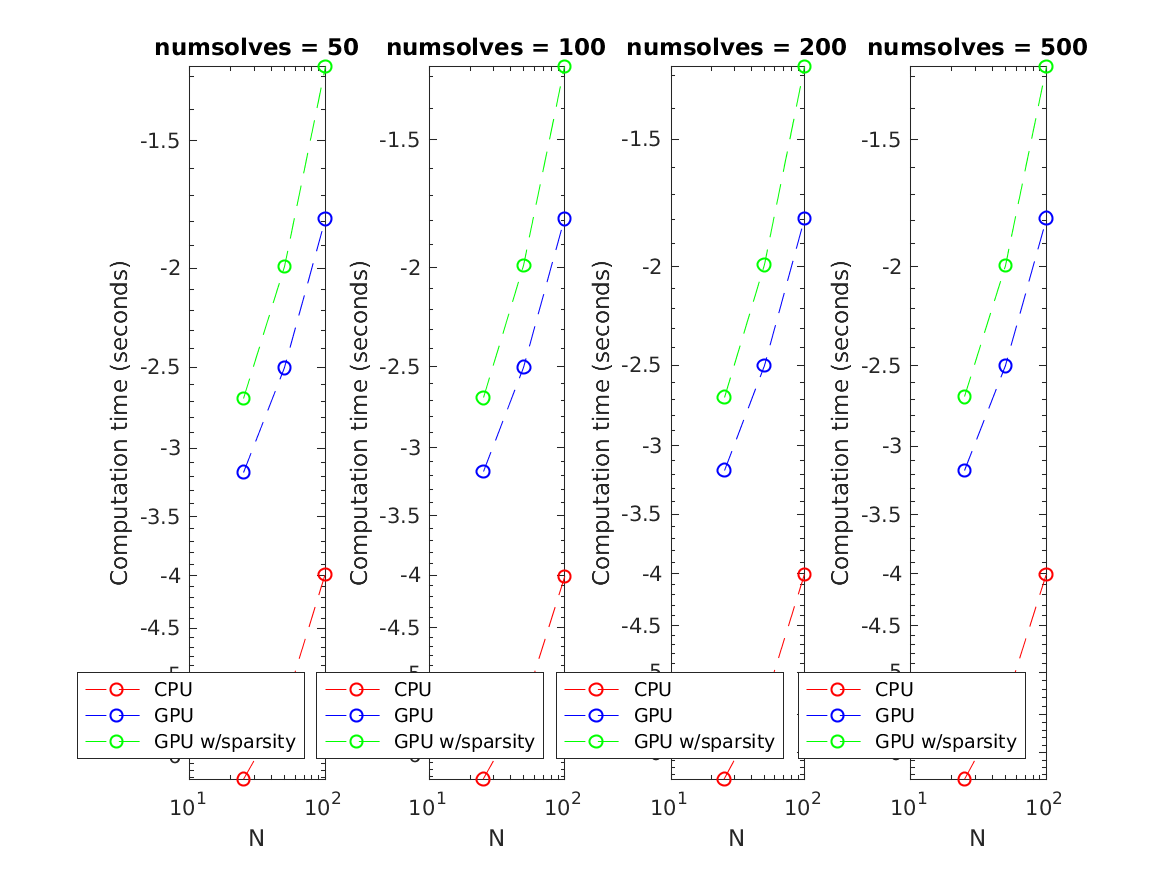
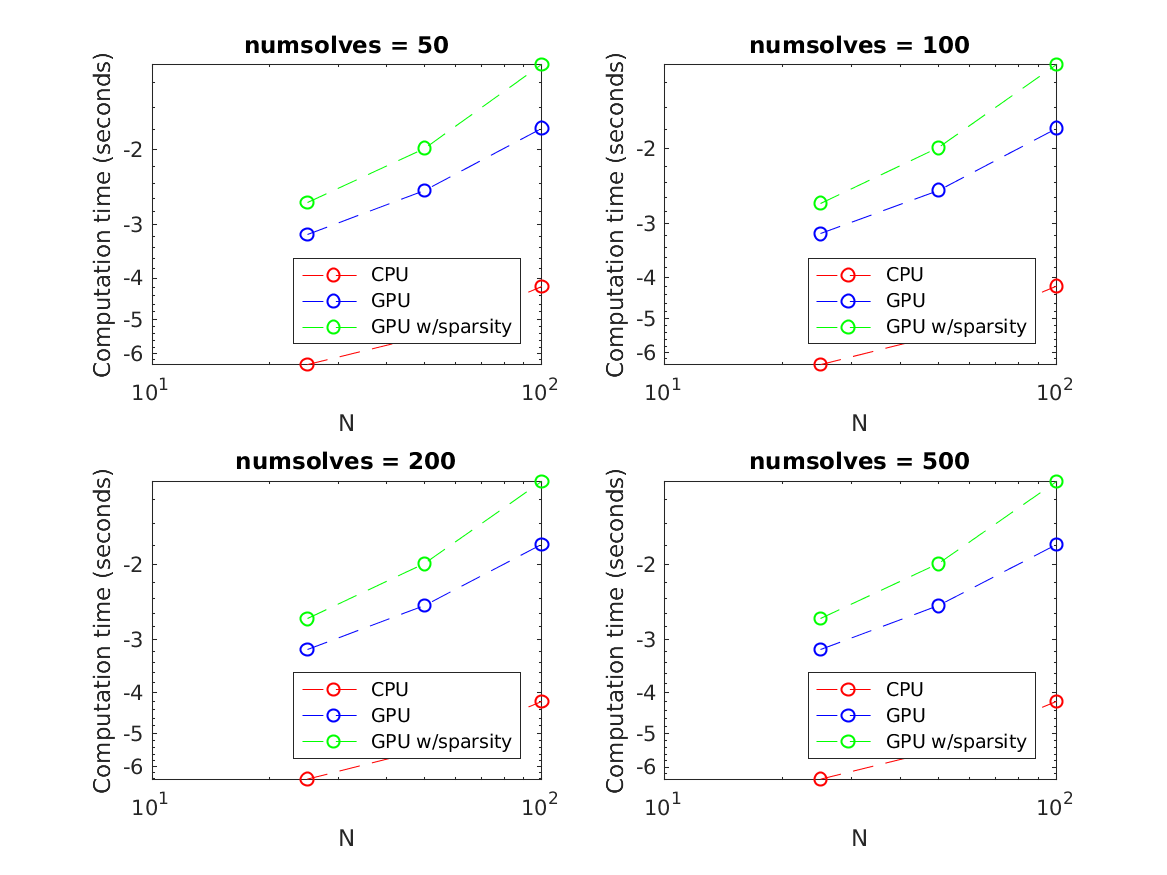
one more figure test

diff --git a/All-other-forward-problems-and-figures/sparseGPUtest1.m b/All-other-forward-problems-and-figures/sparseGPUtest1.m
@@ -48,7 +48,7 @@ end
 %Plot results
 figure
 for solveind = 1:length(nsolvesvec)
-subplot(1,length(nsolvesvec), solveind)
+subplot(2,2, solveind)
 loglog(Nvec, median(logCPUtime(:,:,solveind),1), 'r--o', Nvec, median(logGPUtime(:,:,solveind),1), 'b--o', Nvec, median(logGPUsparsetime(:,:,solveind),1), 'g--o')
 title(strcat("numsolves = ", num2str(nsolvesvec(solveind))));
 xlabel('N')
